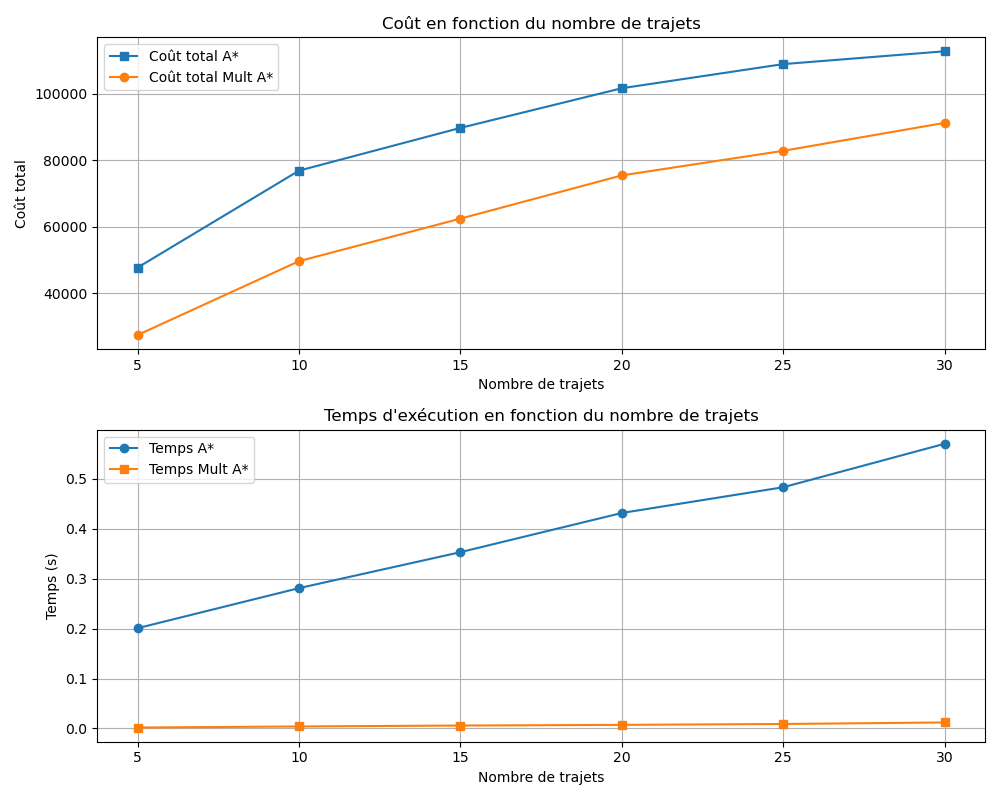
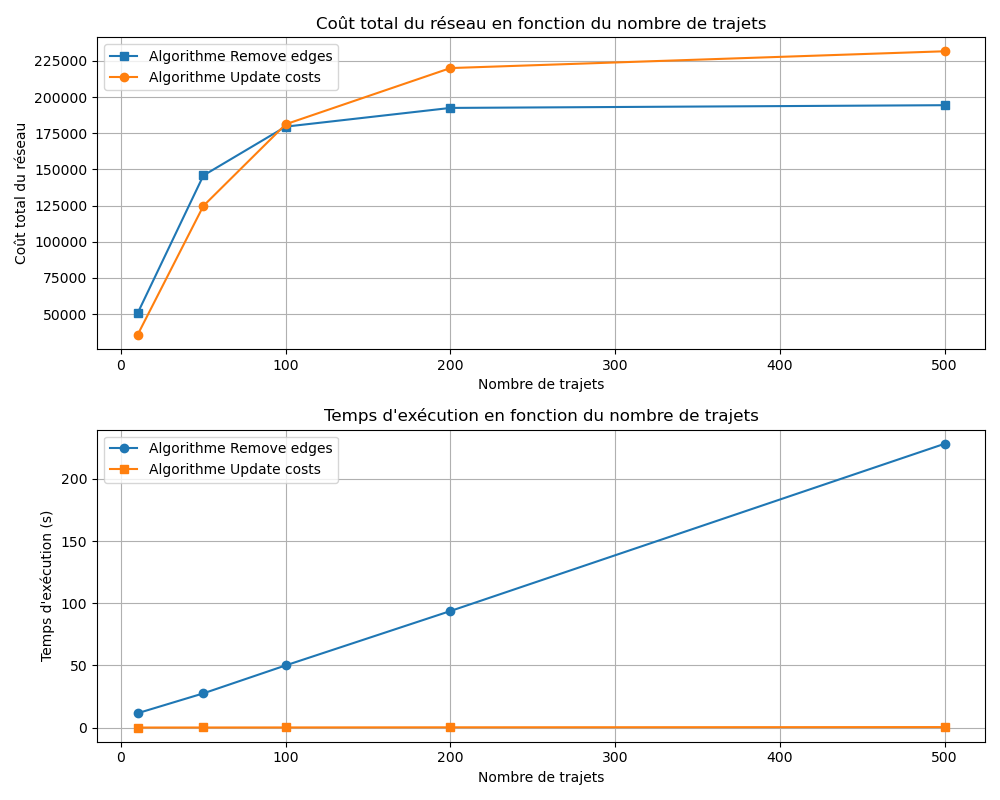
Modifs comparison_graphs

diff --git a/Python_files/comparaison_graphs.py b/Python_files/comparaison_graphs.py
@@ -15,12 +15,14 @@ routes_csv = "../basic_datasets/pre_existing_routes.csv"
 airport_graph = create_airport_graph(airports_csv, routes_csv)
 
 # Paramètres fixes
-j = 15  # Nombre de paires de destinations
+j = 500  # Nombre de paires de destinations
 C_values = [2000]  # Coût d'ajout d'une arête supplémentaire
-num_runs = 10  # Nombre d'exécutions pour la moyenne
+num_runs = 5  # Nombre d'exécutions pour la moyenne
+
+
 
 # Comparaison en fonction du nombre de nœuds avec un nombre d'arêtes fixe
-n_values = [10, 20, 30, 40, 50, 60, 70] # il y a 75 aéroports dans le fichier csv
+n_values = [10, 20, 30, 40, 50, 60, 70, 75] # il y a 75 aéroports dans le fichier csv
 m_fixed = 40  # Nombre d'arêtes constant
 
 astar_means_times_nodes = []
@@ -61,8 +63,8 @@ for n in n_values:
     multi_astar_means_costs_nodes.append(np.mean(multi_astar_costs))
 
 # Comparaison en fonction du nombre d'arêtes avec un nombre de nœuds fixe
-m_values = [100, 120, 140, 160, 180, 200]
-n_fixed = 50  # Nombre de nœuds constant
+m_values = [100, 250, 500, 750, 1000, 1250, 1500]
+n_fixed = 70  # Nombre de nœuds constant
 
 astar_means_times_edges = []
 multi_astar_means_times_edges = []
@@ -104,9 +106,9 @@ for m in m_values:
 
 
 # Comparaison en fonction du nombre de trajets requis
-j_values = [5, 10, 15, 20, 25, 30]
-m_fixed = 150  # Nombre d'arêtes constant
-n_fixed = 50  # Nombre de nœuds constant
+j_values = [10, 50, 100, 200, 500]
+m_fixed = 1000  # Nombre d'arêtes constant
+n_fixed = 70  # Nombre de nœuds constant
 
 astar_means_times_j = []
 multi_astar_means_times_j = []
@@ -130,7 +132,10 @@ for j in j_values:
         elapsed_time = time.time() - start_time
 
         astar_times.append(elapsed_time)
+        print("Astar time",elapsed_time)
         astar_costs.append(best_cost)
+        print("Astar cost",best_cost)
+        print("Nombre de vols restants",len(G_prime.edges()))
 
         start_time = time.time()
         G_mult, rsubgraph = approx_multiple_astar(random_subgraph, destination_pairs, C_values[0], iterations=30)
@@ -138,7 +143,9 @@ for j in j_values:
         multi_astar_cost = sum([nx.shortest_path_length(G_mult, start, end) for start, end in destination_pairs]) / len(destination_pairs) + C_values[0] * len(G_mult.edges())
 
         multi_astar_times.append(elapsed_time)
+        print("Multi Astar time",elapsed_time)
         multi_astar_costs.append(multi_astar_cost)
+        print("Multi Astar cost",multi_astar_cost)
 
     astar_means_times_j.append(np.mean(astar_times))
     multi_astar_means_times_j.append(np.mean(multi_astar_times))
@@ -151,40 +158,40 @@ plt.figure(figsize=(10, 8))
 
 # Coût en fonction du nombre de nœuds
 plt.subplot(2, 2, 1)
-plt.plot(n_values, astar_means_costs_nodes, 's-', label="Coût total A*")
-plt.plot(n_values, multi_astar_means_costs_nodes, 'o-', label="Coût total Mult A*")
+plt.plot(n_values, astar_means_costs_nodes, 's-', label="Algorithme Remove edges")
+plt.plot(n_values, multi_astar_means_costs_nodes, 'o-', label="Algorithme Update costs")
 plt.xlabel("Nombre de nœuds")
-plt.ylabel("Coût total")
-plt.title("Coût en fonction du nombre de nœuds")
+plt.ylabel("Coût total du réseau")
+plt.title("Coût du réseau en fonction du nombre de nœuds")
 plt.legend()
 plt.grid()
 
 # Temps d'exécution en fonction du nombre de nœuds
 plt.subplot(2, 2, 2)
-plt.plot(n_values, astar_means_times_nodes, 'o-', label="Temps A*")
-plt.plot(n_values, multi_astar_means_times_nodes, 's-', label="Temps Mult A*")
+plt.plot(n_values, astar_means_times_nodes, 'o-', label="Algorithme Remove edges")
+plt.plot(n_values, multi_astar_means_times_nodes, 's-', label="Algorithme Update costs")
 plt.xlabel("Nombre de nœuds")
-plt.ylabel("Temps (s)")
+plt.ylabel("Temps d'exécution (s)")
 plt.title("Temps d'exécution en fonction du nombre de nœuds")
 plt.legend()
 plt.grid()
 
 # Coût en fonction du nombre d'arêtes
 plt.subplot(2, 2, 3)
-plt.plot(m_values, astar_means_costs_edges, 's-', label="Coût total A*")
-plt.plot(m_values, multi_astar_means_costs_edges, 'o-', label="Coût total Mult A*")
+plt.plot(m_values, astar_means_costs_edges, 's-', label="Algorithme Remove edges")
+plt.plot(m_values, multi_astar_means_costs_edges, 'o-', label="Algorithme Update costs")
 plt.xlabel("Nombre d'arêtes")
-plt.ylabel("Coût total")
-plt.title("Coût en fonction du nombre d'arêtes")
+plt.ylabel("Coût total du réseau")
+plt.title("Coût total du réseau en fonction du nombre d'arêtes")
 plt.legend()
 plt.grid()
 
 # Temps d'exécution en fonction du nombre d'arêtes
 plt.subplot(2, 2, 4)
-plt.plot(m_values, astar_means_times_edges, 'o-', label="Temps A*")
-plt.plot(m_values, multi_astar_means_times_edges, 's-', label="Temps Mult A*")
+plt.plot(m_values, astar_means_times_edges, 'o-', label="Algorithme Remove edges")
+plt.plot(m_values, multi_astar_means_times_edges, 's-', label="Algorithme Update costs")
 plt.xlabel("Nombre d'arêtes")
-plt.ylabel("Temps (s)")
+plt.ylabel("Temps d'exécution (s)")
 plt.title("Temps d'exécution en fonction du nombre d'arêtes")
 plt.legend()
 plt.grid()
@@ -193,31 +200,33 @@ plt.tight_layout()
 plt.savefig("comparaison_noeuds_aretes.png")
 plt.show()
 
+
+
 # Tracé des résultats
-plt.figure(figsize=(10, 8))
+plt.figure(figsize=(10, 4))
 
 # Coût en fonction du nombre de trajets
-plt.subplot(2, 1, 1)
-plt.plot(j_values, astar_means_costs_j, 's-', label="Coût total A*")
-plt.plot(j_values, multi_astar_means_costs_j, 'o-', label="Coût total Mult A*")
+plt.subplot(1, 2, 1)
+plt.plot(j_values, astar_means_costs_j, 's-', label="Algorithme Remove edges")
+plt.plot(j_values, multi_astar_means_costs_j, 'o-', label="Algorithme Update costs")
 plt.xlabel("Nombre de trajets")
-plt.ylabel("Coût total")
-plt.title("Coût en fonction du nombre de trajets")
+plt.ylabel("Coût total du réseau")
+plt.title("Coût total du réseau en fonction du nombre de trajets")
 plt.legend()
 plt.grid()
 
 # Temps d'exécution en fonction du nombre de trajets    
-plt.subplot(2, 1, 2)
-plt.plot(j_values, astar_means_times_j, 'o-', label="Temps A*")
-plt.plot(j_values, multi_astar_means_times_j, 's-', label="Temps Mult A*")
+plt.subplot(1, 2, 2)
+plt.plot(j_values, astar_means_times_j, 'o-', label="Algorithme Remove edges")
+plt.plot(j_values, multi_astar_means_times_j, 's-', label="Algorithme Update costs")
 plt.xlabel("Nombre de trajets")
-plt.ylabel("Temps (s)")
+plt.ylabel("Temps d'exécution (s)")
 plt.title("Temps d'exécution en fonction du nombre de trajets")
 plt.legend()
 plt.grid()
 
 plt.tight_layout()
-plt.savefig("comparaison_#trajets.png")
+plt.savefig("all_data.png")
 plt.show()
 
 
@@ -252,21 +261,21 @@ plt.figure(figsize=(10, 8))
 
 # Comparaison des coûts
 plt.subplot(2, 1, 1)
-plt.plot(C_values, astar_costs, 'o-', label="A*")
-plt.plot(C_values, multi_astar_costs, 's-', label="Mult A*")
-plt.xlabel("C (Coût par arête)")
-plt.ylabel("Coût total")
-plt.title("Comparaison des coûts")
+plt.plot(C_values, astar_costs, 'o-', label="Algorithme Remove edges")
+plt.plot(C_values, multi_astar_costs, 's-', label="Algorithme Update costs")
+plt.xlabel("C (coût par arête)")
+plt.ylabel("Coût total du réseau")
+plt.title("Coût total du réseau en fonction du côut C par arête")
 plt.legend()
 plt.grid()
 
 # Comparaison des temps d'exécution
 plt.subplot(2, 1, 2)
-plt.plot(C_values, astar_times, 'o-', label="A*")
-plt.plot(C_values, multi_astar_times, 's-', label="Mult A*")
-plt.xlabel("C (Coût par arête)")
+plt.plot(C_values, astar_times, 'o-', label="Algorithme Remove edges")
+plt.plot(C_values, multi_astar_times, 's-', label="Algorithme Update costs")
+plt.xlabel("C (coût par arête)")
 plt.ylabel("Temps d'exécution (s)")
-plt.title("Comparaison des temps d'exécution")
+plt.title("Temps d'exécution en fonction du coût C par arête")
 plt.legend()
 plt.grid()
 
